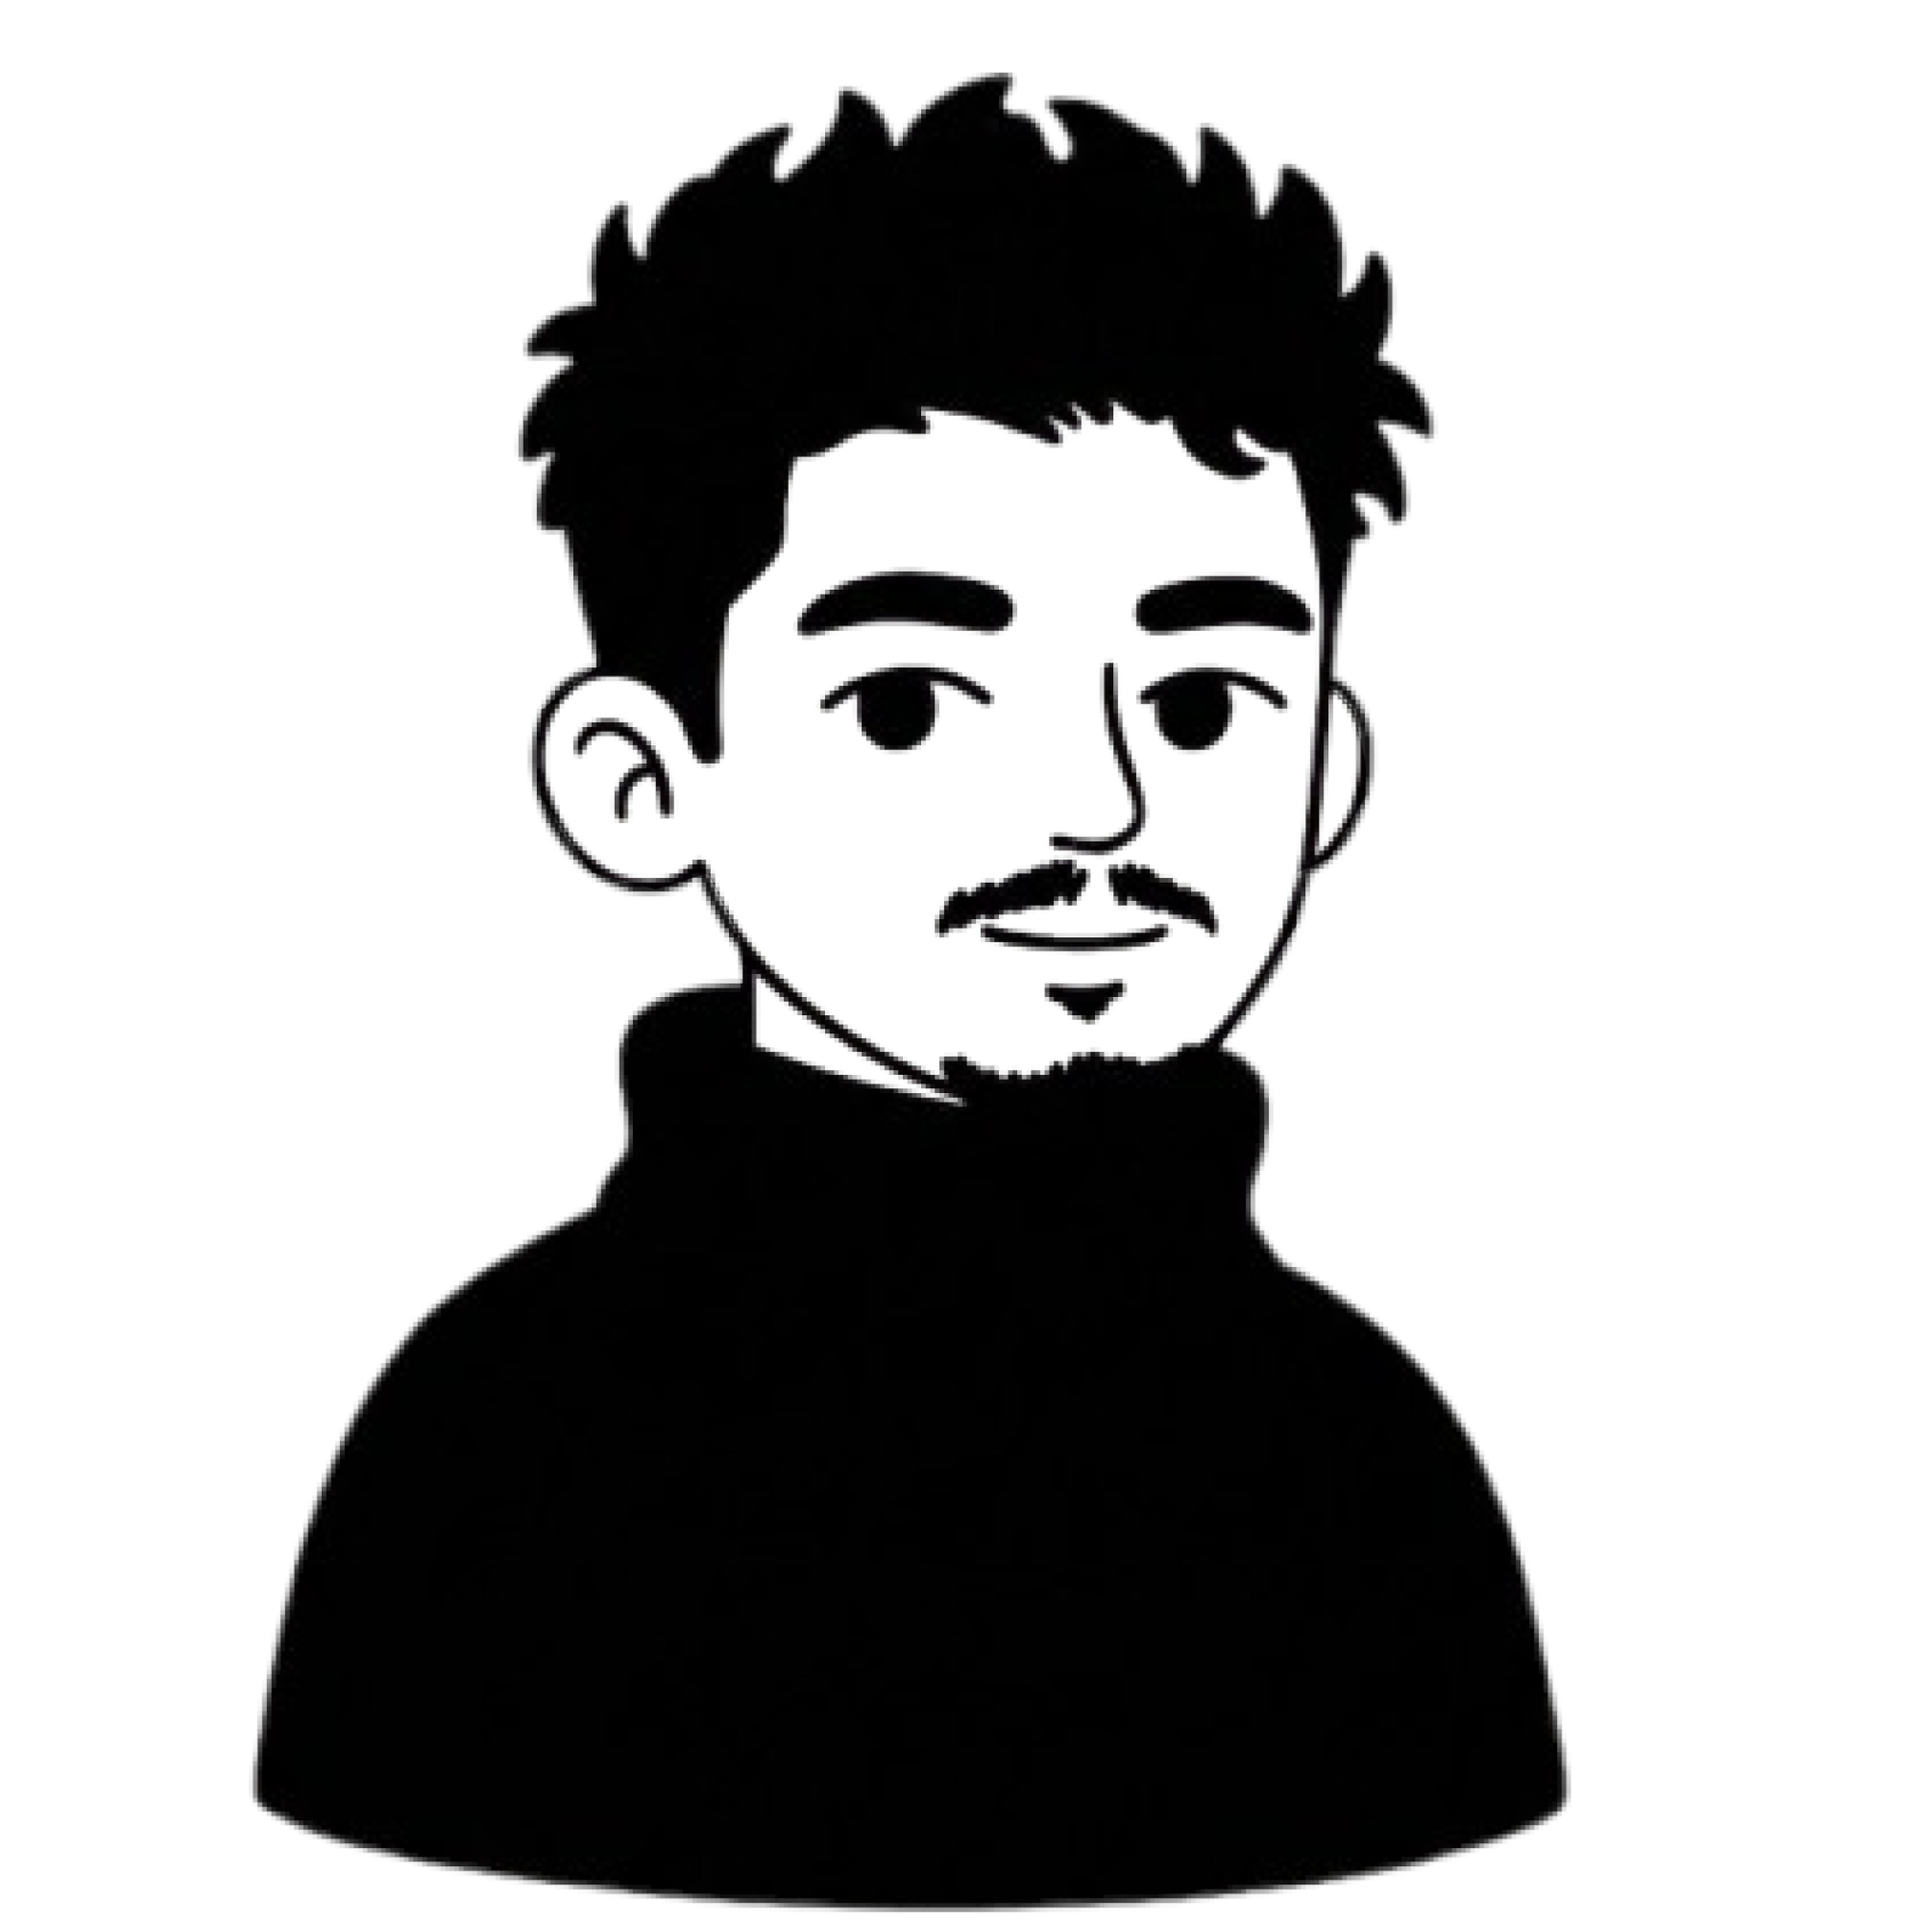
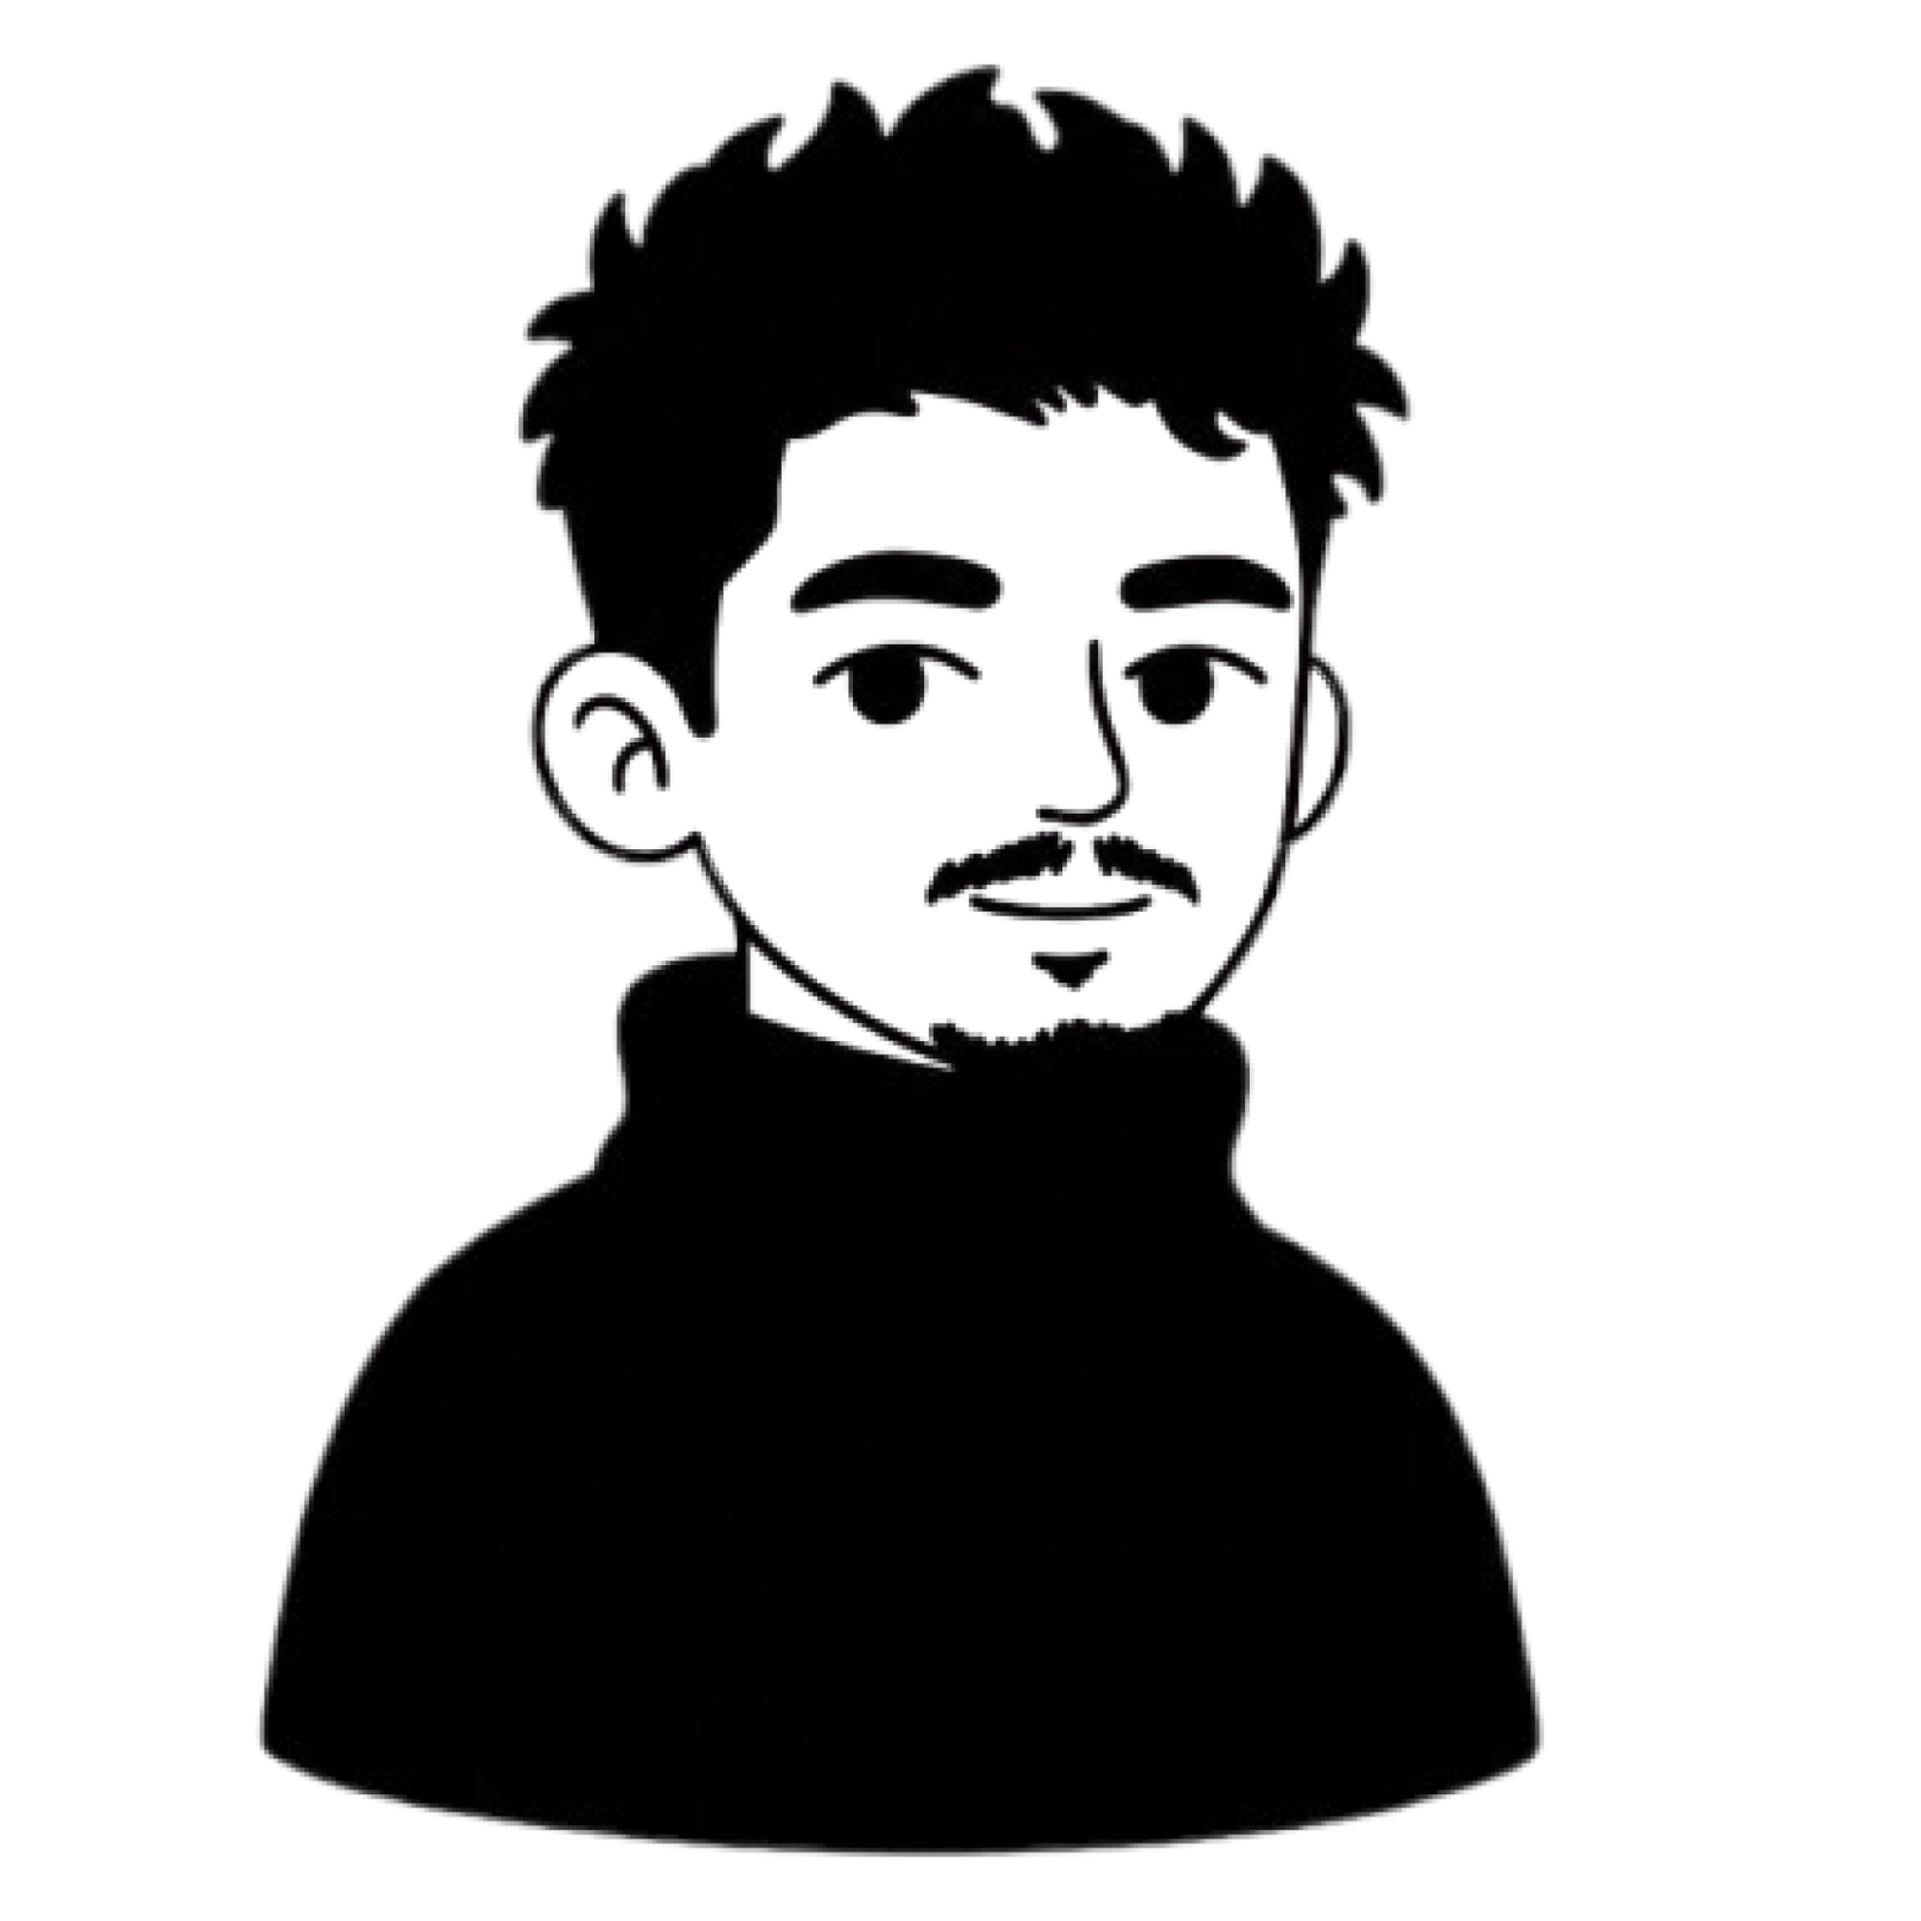
refactor: remove Easter egg toggle functionality and update profile image in homepage

diff --git a/app/page.tsx b/app/page.tsx
@@ -134,7 +134,6 @@ export default function Home() {
           >
             {/* Profile Image - Easter Egg Trigger */}
             <button
-              onClick={() => setShowEasterEgg(!showEasterEgg)}
               className="group relative mb-2 h-40 w-40 grayscale filter sm:h-56 sm:w-56 overflow-hidden cursor-pointer transition-all duration-500 hover:grayscale-0 active:scale-95"
               aria-label="Toggle Aura Mode"
             >
@@ -145,10 +144,7 @@ export default function Home() {
                 className={`object-contain transition-all duration-700 ${showEasterEgg ? 'grayscale-0 scale-105' : 'grayscale'}`}
                 priority
               />
-              <div className="absolute bottom-0 left-0 right-0 h-12 bg-gradient-to-t from-white via-white/60 to-transparent dark:from-black dark:via-black/60 backdrop-blur-[1px]" />
 
-              {/* Subtle Glow on Hover */}
-              <div className="absolute inset-0 opacity-0 group-hover:opacity-100 transition-opacity duration-500 shadow-[inset_0_0_20px_rgba(59,130,246,0.3)] rounded-full pointer-events-none" />
             </button>
 
             {/* Hero Text */}
